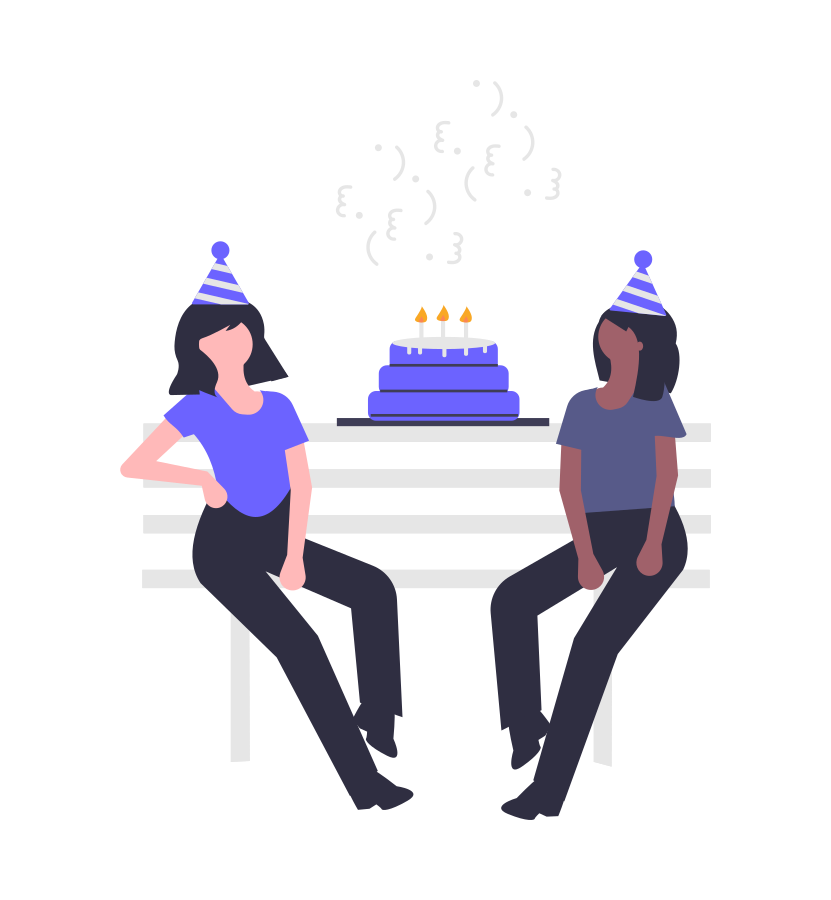
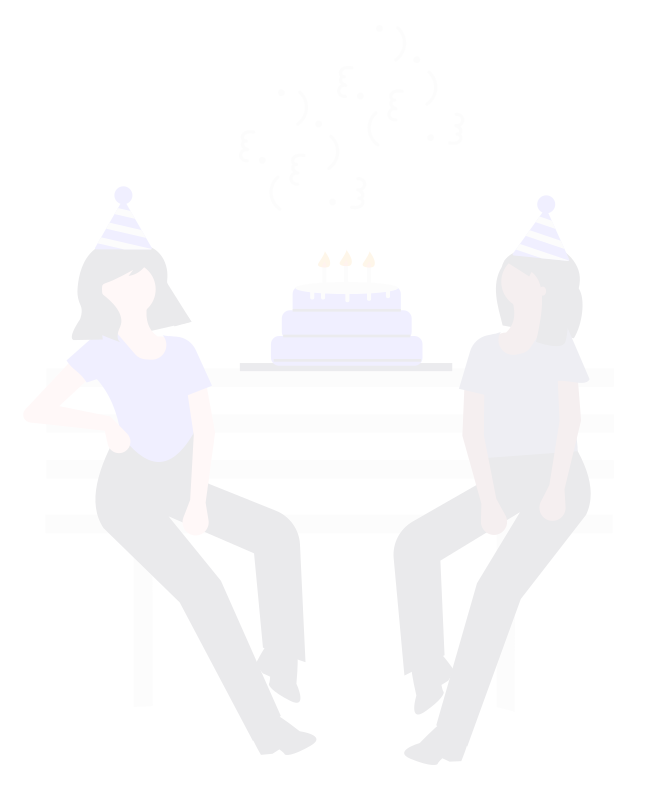
added imgs url to docinhos section in doces tab and ajusted background-img in index.html

Changed region(s): [[0.122, 0.2707, 0.8537, 0.9323], [0.2744, 0.7519, 0.3049, 0.8421]]

diff --git a/doces.html b/doces.html
@@ -107,11 +107,7 @@
     <!-- Tabs -->
     <div class="container-my-3 p-3">
       <nav>
-        <div
-          class="nav nav-tabs nav-fill nav-justified pb-2"
-          id="nav-tab"
-          role="tablist"
-        >
+        <div class="nav nav-tabs nav-fill pb-2" id="nav-tab" role="tablist">
           <button
             class="nav-link active"
             id="nav-bolosredondos-tab"
@@ -538,9 +534,33 @@
         <div class="row justify-content-center">
           <div class="col-lg-4 col-md-12 mb-2 mb-lg-0">
             <img
-              src="./img/produtos/salgados/bolossalgados/bolo-salgado.jpg"
+              src="./img/produtos/doces/docinhos/brigadeiro.jpg"
               class="w-100 shadow-1-strong rounded mb-4"
-              alt="bolo salgado"
+              alt="brigadeiro 01"
+            />
+            <img
+              src="./img/produtos/doces/docinhos/beijinhos.jpg"
+              class="w-100 shadow-1-strong rounded mb-4"
+              alt="beijinhos 01"
+            />
+          </div>
+          <div class="col-lg-4 col-md-12 mb-2 mb-lg-0">
+            <img
+              src="./img/produtos/doces/docinhos/docinho.jpg"
+              class="w-100 shadow-1-strong rounded mb-4"
+              alt="docinho"
+            />
+            <img
+              src="./img/produtos/doces/docinhos/brigadeiro2.jpg"
+              class="w-100 shadow-1-strong rounded mb-4"
+              alt="brigadeiro 02"
+            />
+          </div>
+          <div class="col-lg-4 col-md-12 mb-2 mb-lg-0">
+            <img
+              src="./img/produtos/doces/docinhos/brigadeiro-c-salgados.jpg"
+              class="w-100 shadow-1-strong rounded mb-4"
+              alt="brigadeiro com salgadinhos"
             />
           </div>
         </div>

diff --git a/index.html b/index.html
@@ -22,20 +22,6 @@
   </head>
 
   <body style="background-color: #c3c7d0">
-    <style>
-      .hero::before {
-        content: "";
-        background-image: url(./img/personagens/hellenetarcila.png);
-        background-size: cover;
-        position: absolute;
-        top: 0px;
-        right: 0px;
-        bottom: 0px;
-        left: 0px;
-        opacity: 0.1;
-      }
-    </style>
-
     <nav
       class="navbar navbar-expand-lg navbar-light"
       style="
@@ -243,18 +229,29 @@
       </div>
     </div>
 
-    <div class="container-fluid">
-      <div class="row hero">
-        <div class="col-12 py-5">
-          <figure class="text-center">
-            <h1 class="ft-lobster-it">
-              Conte conosco para fazer do seu evento um dia memorável!
-            </h1>
-          </figure>
+    <div
+      class="container-xl"
+      style="
+        background-image: url(./img/personagens/hellenetarcila.png);
+        background-size: cover;
+        background-position: center;
+      "
+    >
+      <div
+        class="container-fluid d-flex justify-content-center align-items-center"
+        style="height: 65vh"
+      >
+        <div class="row">
+          <div class="col-12 py-5">
+            <figure class="text-center">
+              <h1 class="ft-lobster-it">
+                Conte conosco para fazer do seu evento um dia memorável!
+              </h1>
+            </figure>
+          </div>
         </div>
       </div>
     </div>
-
     <footer>
       <div
         class="text-center p-4"

diff --git a/css/style.css b/css/style.css
@@ -45,7 +45,6 @@
   position: relative;
   height: 40vh;
   margin: 0;
-  padding: 0%;
   width: 100%;
   display: flex;
   align-items: center;
@@ -57,9 +56,18 @@
   background-image: url(./img/personagens/hellenetarcila.png);
   background-size: cover;
   position: absolute;
+  background-position: center;
   top: -9vh;
   right: 0px;
   bottom: 0px;
   left: 0px;
-  opacity: 0.1;
 }
+
+/* @media (min-width: 576px) {
+
+  background-position-y: -15vh;
+  background-image: url(./img/personagens/hellenetarcila.png);
+  background-size: cover;
+  background-position-x: center;
+  background-repeat-y: no-repeat;
+}*/
